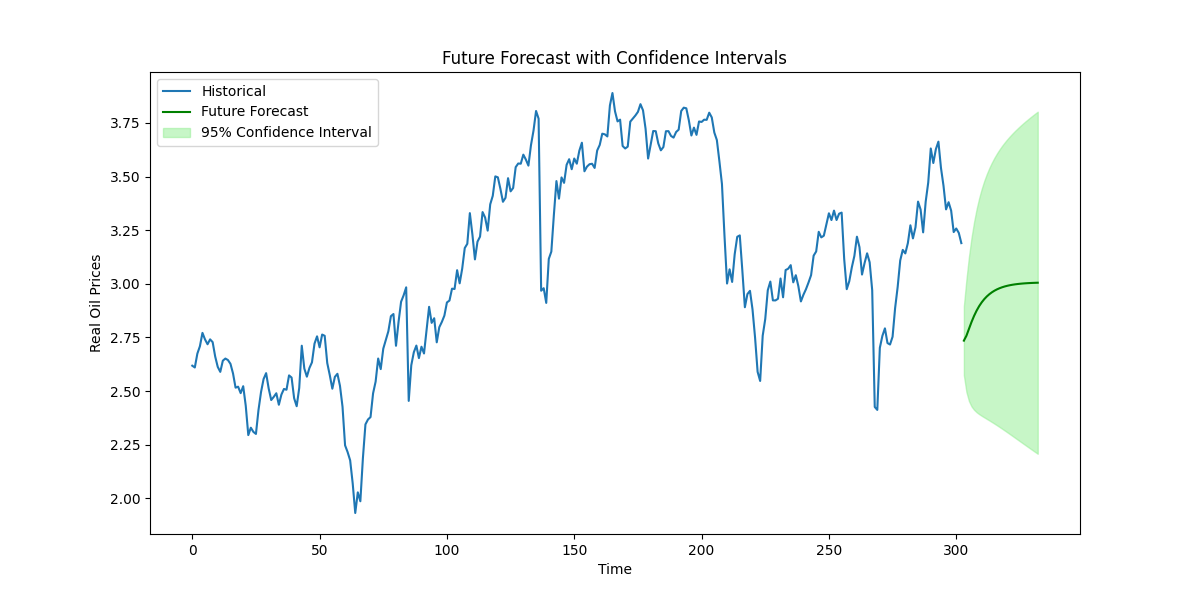
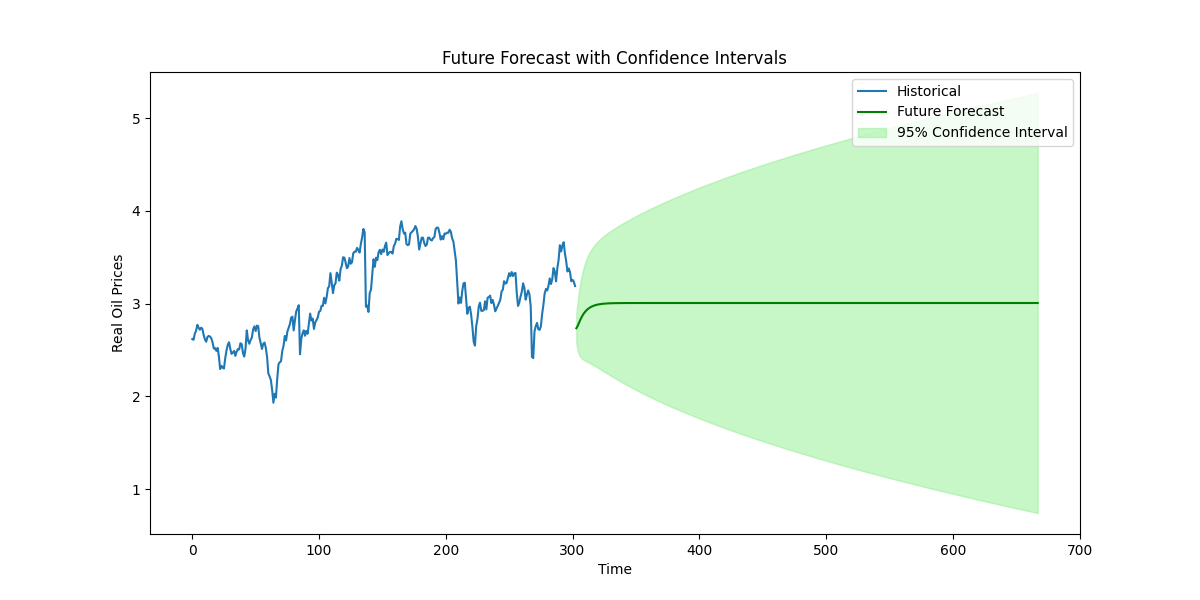
Add days to predict input box

diff --git a/static/js/script.js b/static/js/script.js
@@ -8,6 +8,7 @@ const checkboxContainer = document.getElementById("checkbox-container");
 const plotType = document.getElementById("plot-type");
 const modelType = document.getElementById('model-type')
 const dataDropdownSelection = document.getElementById('dataset')
+const daysToForecast = document.getElementById('days-to-forecast')
 
 // Listen for click events on the mobile menu button
 if (mobileMenuButton) {
@@ -107,6 +108,14 @@ if (modelType) {
     modelType.addEventListener('change', () => {
         const model = modelType.value;
 
+        if (modelType.value === 'prophet' || modelType.value === 'arima') {
+            document.getElementById('days-to-forecast').classList.remove('hidden');
+            document.getElementById('days-to-forecast-label').classList.remove('hidden');
+        } else {
+            document.getElementById('days-to-forecast').classList.add('hidden');
+            document.getElementById('days-to-forecast-label').classList.add('hidden');
+        }
+
         // Send GET request to fetch features for the selected model
         fetch(`/features?model=${model}`, )
         .then(response => {
@@ -144,10 +153,31 @@ if (dataDropdownSelection){
     });
 }
 
+// Days to predict
+if (daysToForecast) {
+    daysToForecast.addEventListener('change', () => {
+        const days = daysToForecast.value;
+        console.log(`Days to predict: ${days}`);
+        fetch('/forecast', {
+            method: 'POST',
+            headers: {
+                'Content-Type': 'application/json',
+            },
+            body: JSON.stringify({days: days}),
+        })
+        .then(response => {
+            if (response.ok) {
+                return response.json();
+            } else {
+                throw new Error("Failed to fetch features");
+            }
+        })
+    });
+}
+
 // Plot type selection
 if (plotType) {
     plotType.addEventListener('change', () => {
-        console.log("Plot type changed");  // Debugging line
         const selected_features = getSelectedFeatures();
         fetch('/plot', {
             method: 'POST',

diff --git a/templates/predict.html b/templates/predict.html
@@ -95,14 +95,14 @@
                             <option hidden value="xgboost_time_series">XGBoost [Time Series]</option>
                         </select>
 
-                        <label for="days-to-predict">Days to Predict</label>
+                        <label class="hidden" for="days-to-forecast" id="days-to-forecast-label">Days to Forecast</label>
                         <input
                             type="number"
-                            id="days-to-predict"
+                            id="days-to-forecast"
                             max="365"
                             min="1"
-                            name="days-to-predict"
-                            class="mt-2 block w-full rounded-md border-0 py-1.5 pl-3 pr-10 text-gray-900 ring-1 ring-inset ring-gray-300 focus:ring-2 focus:ring-indigo-600 sm:text-sm sm:leading-6"
+                            name="days-to-forecast"
+                            class="hidden mt-2 block w-full rounded-md border-0 py-1.5 pl-3 pr-10 text-gray-900 ring-1 ring-inset ring-gray-300 focus:ring-2 focus:ring-indigo-600 sm:text-sm sm:leading-6"
                             value="30"
                         >
 

diff --git a/app.py b/app.py
@@ -12,6 +12,9 @@ app = Flask(__name__)
 
 NUM_FEATURES = 10  # Number of features to show in feature importance plot
 
+# Determine the number of steps to forecast
+num_steps = 30  # 30 days
+
 # Load models and their corresponding datasets into memory on app startup
 model_data = {
     'random_forest': {
@@ -65,9 +68,6 @@ def get_features():
 
     data = load_data_for_model(model_type)  # Load the data into a DataFrame
 
-    # TODO: Remove this print statement
-    print(f"Features for model type: {model_type}, data: {data.columns.tolist()}")
-
     # Fetch feature names from the model-specific data
     feature_names = data.columns.tolist()[0:-1]  # remove the last column (target)
     return jsonify(feature_names)
@@ -85,6 +85,16 @@ def get_data():
 
     filtered_df = df[selected_features]
     return jsonify(filtered_df.to_dict(orient='list'))
+
+
+# Fetch number of days to forecast
+@app.route('/forecast', methods=['POST'])
+def get_forecast_days():
+    global num_steps
+    num_steps = request.json['days']
+    # convert to int
+    num_steps = int(num_steps)
+    return jsonify(num_steps)
 
 
 # Fetch Data and Plot
@@ -239,10 +249,6 @@ def evaluate():
             print(f"Target column: {target_column}")
             time_series_data = data[target_column]
             print(f"Time Series Data: {time_series_data}")
-
-            # Determine the number of steps to forecast
-            # This could be the length of a test set, or a specified future period
-            num_steps = 30  # 30 days
 
             if model_type == 'arima':
                 # Make predictions using get_forecast
